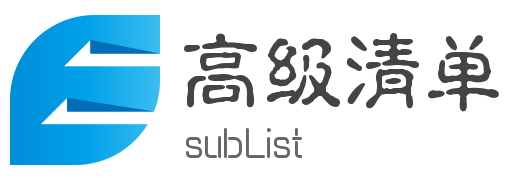
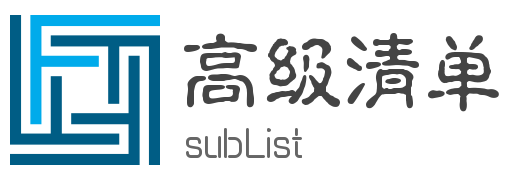
代码提交
代码提交

Changed region(s): [[0.0, 0.0833, 0.3048, 0.9167]]

diff --git a/src/app/routes/listManagement/UnderlyingParameter/s-workitem/s-workitem.component.html b/src/app/routes/listManagement/UnderlyingParameter/s-workitem/s-workitem.component.html
@@ -218,15 +218,57 @@
           (nzOnCancel)="assVisible=false" (nzOnOk)="assSave()">
     <ng-template #assContent>
         <div nz-row [nzGutter]="24">
-            <div nz-col [nzSpan]="12"  class="mb-md">
+            <div nz-col [nzSpan]="24"  class="mb-md">
                 <div nz-form-item class="d-flex">
-                <div nz-form-label><label for="name">开发分支</label></div>
-                <div nz-form-control class="flex-1">
-                    <nz-select style="width:400px;" [(ngModel)]="assbranch" name="branch" nzId="branch" [nzPlaceHolder]="'开发分支'" [nzShowSearch]="true" [nzSize]="'large'">
-                        <nz-option *ngFor="let i of branch; let idx = index" [nzLabel]="i.branchFor" [nzValue]="i.guid"></nz-option>
-                    </nz-select>
+                    <div nz-form-label><label for="name">开发分支</label></div>
+                    <div nz-form-control class="flex-1">
+                        <nz-select style="width: 90%;" [(ngModel)]="assbranch" name="branch" (ngModelChange)="checkBranch(assbranch)" nzId="branch" [nzPlaceHolder]="'开发分支'" [nzShowSearch]="true" [nzSize]="'large'">
+                            <nz-option *ngFor="let i of branch; let idx = index" [nzLabel]="i.fullPath" [nzValue]="i.guid"></nz-option>
+                        </nz-select>
+                    </div>
                 </div>
             </div>
+            <div nz-col [nzSpan]="24"  class="mb-md"  *ngIf="branchdataInfo">
+                <div nz-col [nzSpan]="12" class="mb-md">
+                    <div nz-form-item class="d-flex">
+                        <div nz-form-label class="alignment"><label for="name">分支类型</label></div>
+                        <div nz-form-control class="flex-1">
+                            <nz-input [(ngModel)]="branchData.branchType" name="branchType" [disabled]="true" [nzSize]="'large'" [nzPlaceHolder]="'分支类型'" nzId="branchType"></nz-input>
+                        </div>
+                    </div>
+                </div>
+                <div nz-col [nzSpan]="12" class="mb-md">
+                    <div nz-form-item class="d-flex">
+                        <div nz-form-label class="alignment"><label for="name">创建人</label></div>
+                        <div nz-form-control class="flex-1">
+                            <nz-input [(ngModel)]="branchData.creater" name="creater" [disabled]="true" [nzSize]="'large'" [nzPlaceHolder]="'分支创建人'" nzId="creater"></nz-input>
+                        </div>
+                    </div>
+                </div>
+                <div nz-col [nzSpan]="12" class="mb-md">
+                    <div nz-form-item class="d-flex">
+                        <div nz-form-label class="alignment"><label for="name">创建时间</label></div>
+                        <div nz-form-control class="flex-1">
+                            <nz-input [(ngModel)]="branchData.createTime" name="createTime" [disabled]="true" [nzSize]="'large'" [nzPlaceHolder]="'创建时间'" nzId="createTime"></nz-input>
+                        </div>
+                    </div>
+                </div>
+                <div nz-col [nzSpan]="12" class="mb-md">
+                    <div nz-form-item class="d-flex">
+                        <div nz-form-label class="alignment"><label for="name">当前版本</label></div>
+                        <div nz-form-control class="flex-1">
+                            <nz-input [(ngModel)]="branchData.currVersion" name="currVersion" [disabled]="true" [nzSize]="'large'" [nzPlaceHolder]="'当前版本'" nzId="currVersion"></nz-input>
+                        </div>
+                    </div>
+                </div>
+                <div nz-col [nzSpan]="12" class="mb-md">
+                    <div nz-form-item class="d-flex">
+                        <div nz-form-label class="alignment"><label for="name">上次版本</label></div>
+                        <div nz-form-control class="flex-1">
+                            <nz-input [(ngModel)]="branchData.lastVersion" name="lastVersion" [disabled]="true" [nzSize]="'large'" [nzPlaceHolder]="'上次投产版本'" nzId="lastVersion"></nz-input>
+                        </div>
+                    </div>
+                </div>
             </div>
         </div>
     </ng-template>

diff --git a/src/app/routes/listManagement/UnderlyingParameter/s-workitem/s-workitem.component.ts b/src/app/routes/listManagement/UnderlyingParameter/s-workitem/s-workitem.component.ts
@@ -77,10 +77,12 @@ export class SWorkitemComponent implements OnInit {
     isShowTotal: boolean;
     branchInfo = false; // 弹出框 默认为false
     branchData: BranchModule = new BranchModule();
+    branchdataInfo: boolean; // 分支详情
 
     ngOnInit() {
         this.showAdd = true;
         this.isShowTotal = true;
+        this.branchdataInfo = false; // 默认不显示详情
         this.token  = this.tokenService.get().token; // 绑定token
         this.getData();
         this.getOper()
@@ -258,7 +260,17 @@ export class SWorkitemComponent implements OnInit {
     }
 
 
+    checkBranch(guid) {
+        console.log(guid)
+        this.utilityService.getData(appConfig.testUrl  + appConfig.API.sBranchadd + '/' + guid,   {}, {Authorization: this.token})
+            .subscribe(
+                (val) => {
+                  this.branchData = val.result;
+                  this.branchdataInfo = true; // 默认不显示详情
+                }
+            );
 
+    }
 
     // 弹出框确定
     save() {
@@ -302,6 +314,7 @@ export class SWorkitemComponent implements OnInit {
     // 关联分支
     assSave() {
         this.utilityService.getData(appConfig.testUrl  + appConfig.API.sWorkitem + '/' + this.exitInfo.guid + '/branch/'  + this.assbranch,   {}, {Authorization: this.token})
+            .timeout(5000)
             .subscribe(
                 (val) => {
                     this.assVisible = false;
@@ -310,7 +323,6 @@ export class SWorkitemComponent implements OnInit {
                 }
             );
     }
-
 
 
 

diff --git a/src/app/layout/default/header/header.component.html b/src/app/layout/default/header/header.component.html
@@ -3,7 +3,7 @@
         <!--<img class="expanded" src="./assets/img/logo-full.svg" alt="{{settings.app.name}}" style="max-height:40px;" />-->
         <!--<img class="expanded" src="../../../../assets/img/subSlist.png" alt="{{settings.app.name}}" />-->
 
-        <img class="expanded"  src="../../../../assets/img/subList1.png"  alt="{{settings.app.name}}" style="max-height:40px;"/>
+        <img class="expanded"  src="../../../../assets/img/subList.png"  alt="{{settings.app.name}}" style="max-height:40px;"/>
         <img class="collapsed" src="./assets/img/subExport.svg" alt="{{settings.app.name}}" style="max-height:30px;" />
         <!--<img class="collapsed" src="./assets/img/logo.svg" alt="{{settings.app.name}}" style="max-height:30px;" />-->
     </a>

diff --git a/src/app/service/common.ts b/src/app/service/common.ts
@@ -24,6 +24,7 @@ export let appConfig = {
         list: '/deliveries/list', //
         mergeInfo: '/deliveries/merge/info', // 合并投放清单信息
         merge: '/deliveries/merge',
+        // 分支
         sBranch: '/sBranch/list', // 分支查询
         sBranchadd: '/sBranch', // 分支增加
         NogetsBranch: '/sBranch/notAllot', // 未指配的分支
